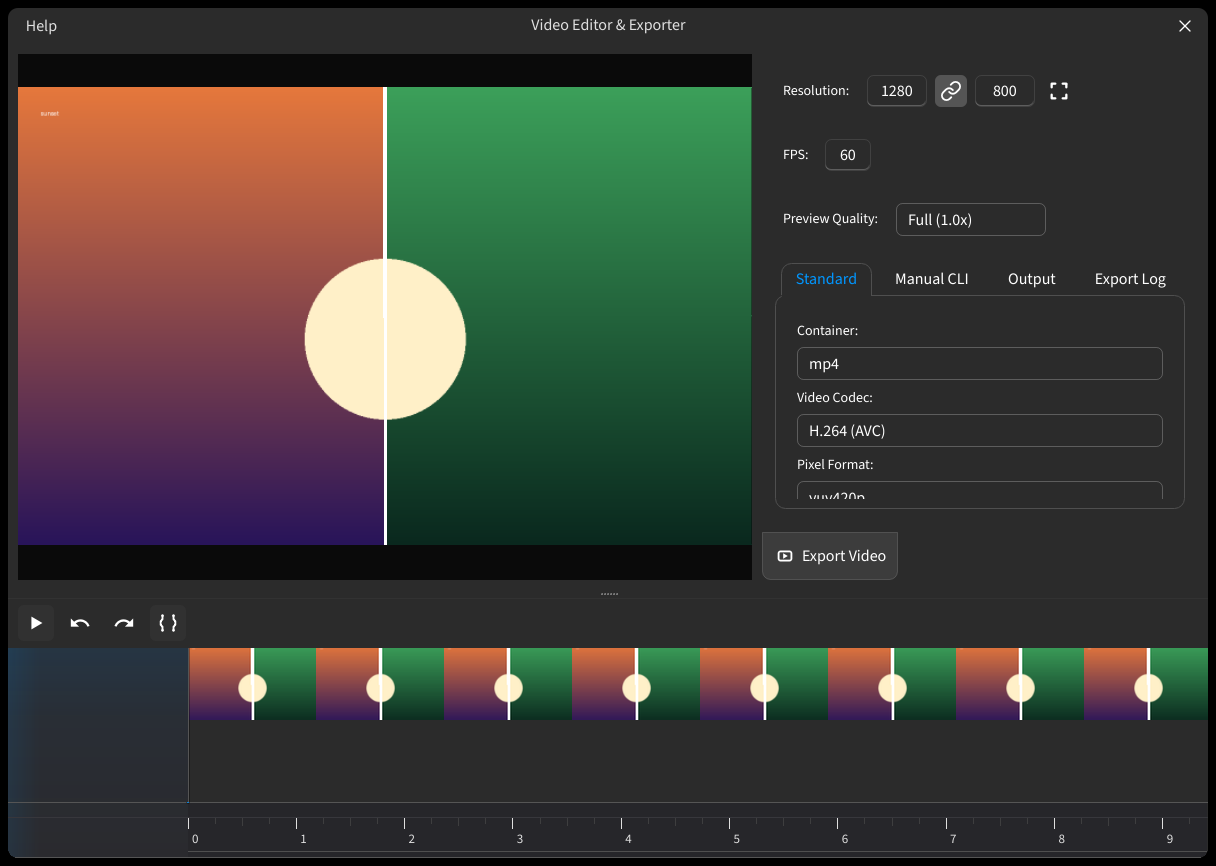
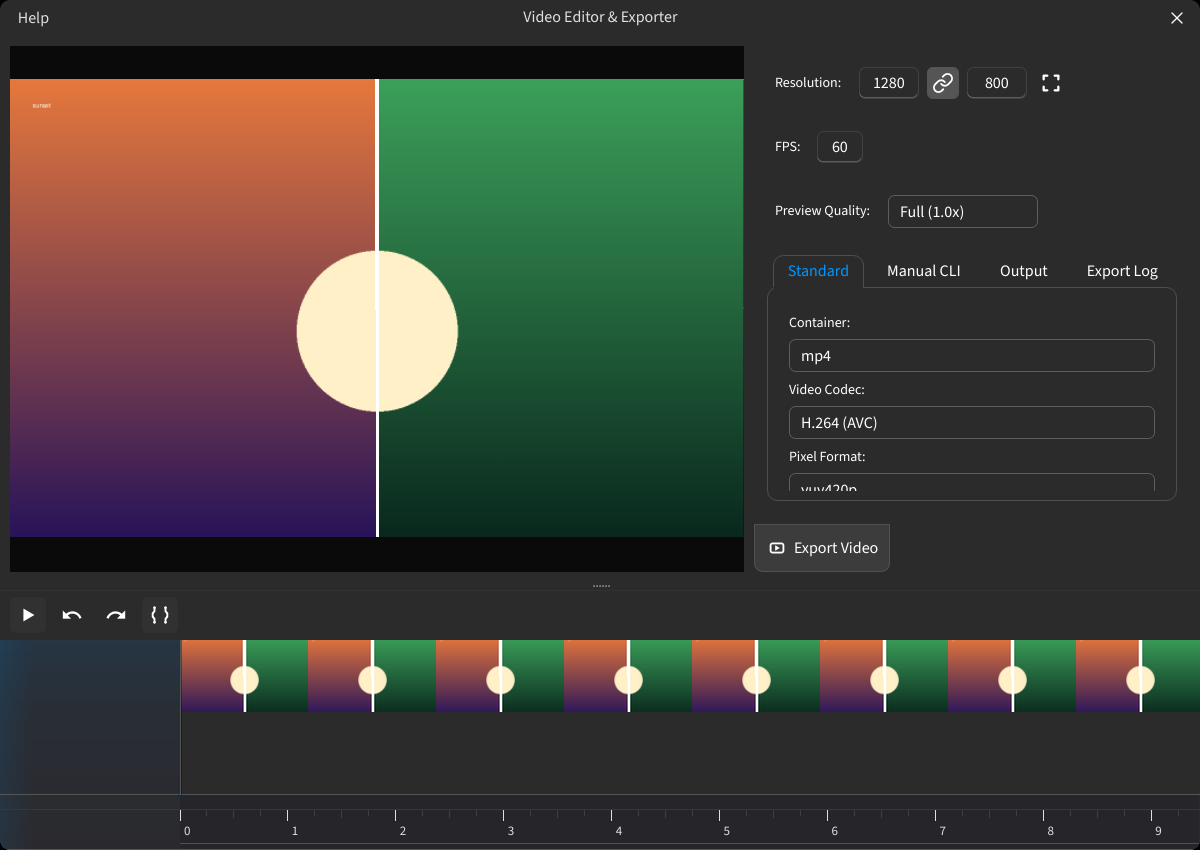
fix(help-figures): trim the root-window band a @screen window crop keeps [help-screen-margin]
A @screen grab cropped by a window rect keeps the pixels outside the dialog; on
a bare X server those are the root window, so the figure shipped a solid band
(measured on ru/light/video_export.jpg: 33507 dark pixels, 33688 of them inside
a 12 px border, corners (0,0,0) against a light dialog edge). Alpha flattening
cannot repair an opaque band.

Rows/columns that are entirely the corner colour are now trimmed (max 24 px per
side), applied only when capture is @screen and the crop element is a window.
Exact colour equality stops at the first differing pixel, so a dialog whose edge
resembles the band is never eaten.

Red-before: both new tests fail on the old install API. Re-captured the 16 cells
of help-video-editor/help-video-export: 1216x866 -> 1200x850 (the 8 px shadow
inset per side), corners now the theme edge, dialog content intact.

diff --git a/src/devtools/help_live.py b/src/devtools/help_live.py
@@ -981,8 +981,60 @@ def _flatten_alpha(image):
     return background
 
 
+#: A ``@screen`` grab cropped by a window rect keeps the pixels OUTSIDE the
+#: dialog: on a bare X server that is the root window, so the crop bakes a solid
+#: band into the figure (measured on ``ru/light/video_export.jpg``: 33507 dark
+#: pixels, 33688 of them inside a 12 px border, corners (0,0,0) while the dialog
+#: edge is light). Alpha flattening cannot repair an opaque band, so trim it.
+SCREEN_WINDOW_MARGIN_TRIM = 24
+
+
+def _trim_uniform_border(image, max_px: int):
+    """Drop rows/columns that are entirely the corner colour (at most ``max_px``).
+
+    Only used for a ``@screen`` capture cropped by a window rect, where the band
+    is the X root window rather than window content. Exact colour equality, so a
+    dialog whose edge merely resembles the band is never eaten: the crop stops
+    at the first line that carries a single different pixel.
+    """
+    if max_px <= 0:
+        return image
+    rgb = image.convert("RGB")
+    pixels = rgb.load()
+    width, height = rgb.size
+    if width < 3 or height < 3:
+        return image
+    colour = pixels[0, 0]
+
+    def row_is_band(y: int) -> bool:
+        return all(pixels[x, y] == colour for x in range(width))
+
+    def column_is_band(x: int) -> bool:
+        return all(pixels[x, y] == colour for y in range(height))
+
+    top = 0
+    while top < max_px and top < height and row_is_band(top):
+        top += 1
+    bottom = 0
+    while bottom < max_px and bottom < height - top and row_is_band(height - 1 - bottom):
+        bottom += 1
+    left = 0
+    while left < max_px and left < width and column_is_band(left):
+        left += 1
+    right = 0
+    while right < max_px and right < width - left and column_is_band(width - 1 - right):
+        right += 1
+    if not (top or bottom or left or right):
+        return image
+    return image.crop((left, top, width - right, height - bottom))
+
+
 def crop_and_install(
-    screenshot: Path, destination: Path, crop: tuple[int, int, int, int] | None
+    screenshot: Path,
+    destination: Path,
+    crop: tuple[int, int, int, int] | None,
+    *,
+    trim_uniform_border: int = 0,
 ) -> Path:
     from PIL import Image
 
@@ -1001,6 +1053,8 @@ def crop_and_install(
             # Clamped, never padded: PIL pads an out-of-bounds crop with black,
             # which reads as a rendering defect in the shipped figure.
             image = image.crop((left, top, right, bottom))
+        if trim_uniform_border:
+            image = _trim_uniform_border(image, trim_uniform_border)
         destination.parent.mkdir(parents=True, exist_ok=True)
         if destination.suffix.lower() in (".jpg", ".jpeg"):
             _flatten_alpha(image).save(
@@ -1101,7 +1155,17 @@ def main(argv: list[str] | None = None) -> int:
                             for message in fixtures.errors:
                                 print(f"WARN {label} fixture: {message}", file=sys.stderr)
                     target = install_target(figure, locale, theme)
-                    crop_and_install(shot, target, crop)
+                    crop_and_install(
+                        shot,
+                        target,
+                        crop,
+                        trim_uniform_border=(
+                            SCREEN_WINDOW_MARGIN_TRIM
+                            if figure.capture == "@screen"
+                            and (figure.crop_element or {}).get("window")
+                            else 0
+                        ),
+                    )
                     print(
                         f"installed {figure.id} [{locale}/{theme}] -> "
                         f"{target.relative_to(REPO_ROOT).as_posix()}"

diff --git a/tests/devtools/test_help_live.py b/tests/devtools/test_help_live.py
@@ -216,3 +216,48 @@ def test_jpeg_install_composites_the_transparent_window_margin(tmp_path):
     edge = [out.getpixel((x, 0)) for x in range(out.width)]
     edge += [out.getpixel((0, y)) for y in range(out.height)]
     assert all(sum(pixel) > 600 for pixel in edge), edge[:4]
+
+
+def test_screen_window_crop_drops_the_root_window_band(tmp_path):
+    """RED-BEFORE: a @screen crop kept the black root window around the dialog.
+
+    The window rect from ``dump_ui_layout`` includes the CSD shadow, and on a
+    bare X server the pixels outside the dialog are the root window, so the
+    figure shipped a solid band (measured on ``ru/light/video_export.jpg``:
+    33507 dark pixels, 33688 inside a 12 px border).
+    """
+    from PIL import Image
+
+    screen = Image.new("RGB", (60, 50), (0, 0, 0))
+    dialog = Image.new("RGB", (40, 30), (245, 245, 245))
+    screen.paste(dialog, (10, 10))
+    source = tmp_path / "screen.png"
+    screen.save(source)
+
+    destination = tmp_path / "figure.png"
+    help_live.crop_and_install(source, destination, None, trim_uniform_border=24)
+
+    with Image.open(destination) as image:
+        assert image.size == (40, 30), "the root-window band is not window content"
+        out = image.convert("RGB")
+    assert out.getpixel((0, 0)) == (245, 245, 245)
+    assert out.getpixel((39, 29)) == (245, 245, 245)
+
+
+def test_a_uniform_border_trim_never_eats_content(tmp_path):
+    """The band stops at the first differing pixel, even inside ``max_px``."""
+    from PIL import Image
+
+    image = Image.new("RGB", (40, 40), (0, 0, 0))
+    for x in range(40):
+        for y in range(40):
+            if 5 <= x < 35 and 5 <= y < 35:
+                image.putpixel((x, y), (10, 118, 168))
+    source = tmp_path / "shot.png"
+    image.save(source)
+
+    destination = tmp_path / "figure.png"
+    help_live.crop_and_install(source, destination, None, trim_uniform_border=24)
+
+    with Image.open(destination) as out:
+        assert out.size == (30, 30)

diff --git a/docs/dev/SCREENSHOTS.md b/docs/dev/SCREENSHOTS.md
@@ -155,6 +155,14 @@ python src/devtools/help_figures.py --all --write-manifest       # record baseli
   `drift` = different hash (exit code 1), `unbaselined` = the entry has no
   recorded hash yet (reported, not drift, so a fresh recipe exits 0).
   `uncovered` recipe entries are listed after the table and are never generated.
+- **A `@screen` crop of a top-level window trims the root-window band.**
+  The window rect from `dump_ui_layout` includes the CSD shadow, and on a bare
+  X server everything outside the dialog is the root window, so the crop used to
+  bake a solid band into the figure (measured on `video_export`: 33507 dark
+  pixels, 33688 inside a 12 px border). Rows/columns that are *entirely* the
+  corner colour are trimmed, at most `SCREEN_WINDOW_MARGIN_TRIM` (24 px) per
+  side, and only for `capture: @screen` + a `window` crop element — exact colour
+  equality stops at the first differing pixel, so content is never eaten.
 - **Baselines.** `--write-manifest` records `sha256`, byte size, dimensions and
   the applied pins for what it generated. Recording needs a real display, so a
   fresh recipe stays `unbaselined` until someone runs `--all --write-manifest`
